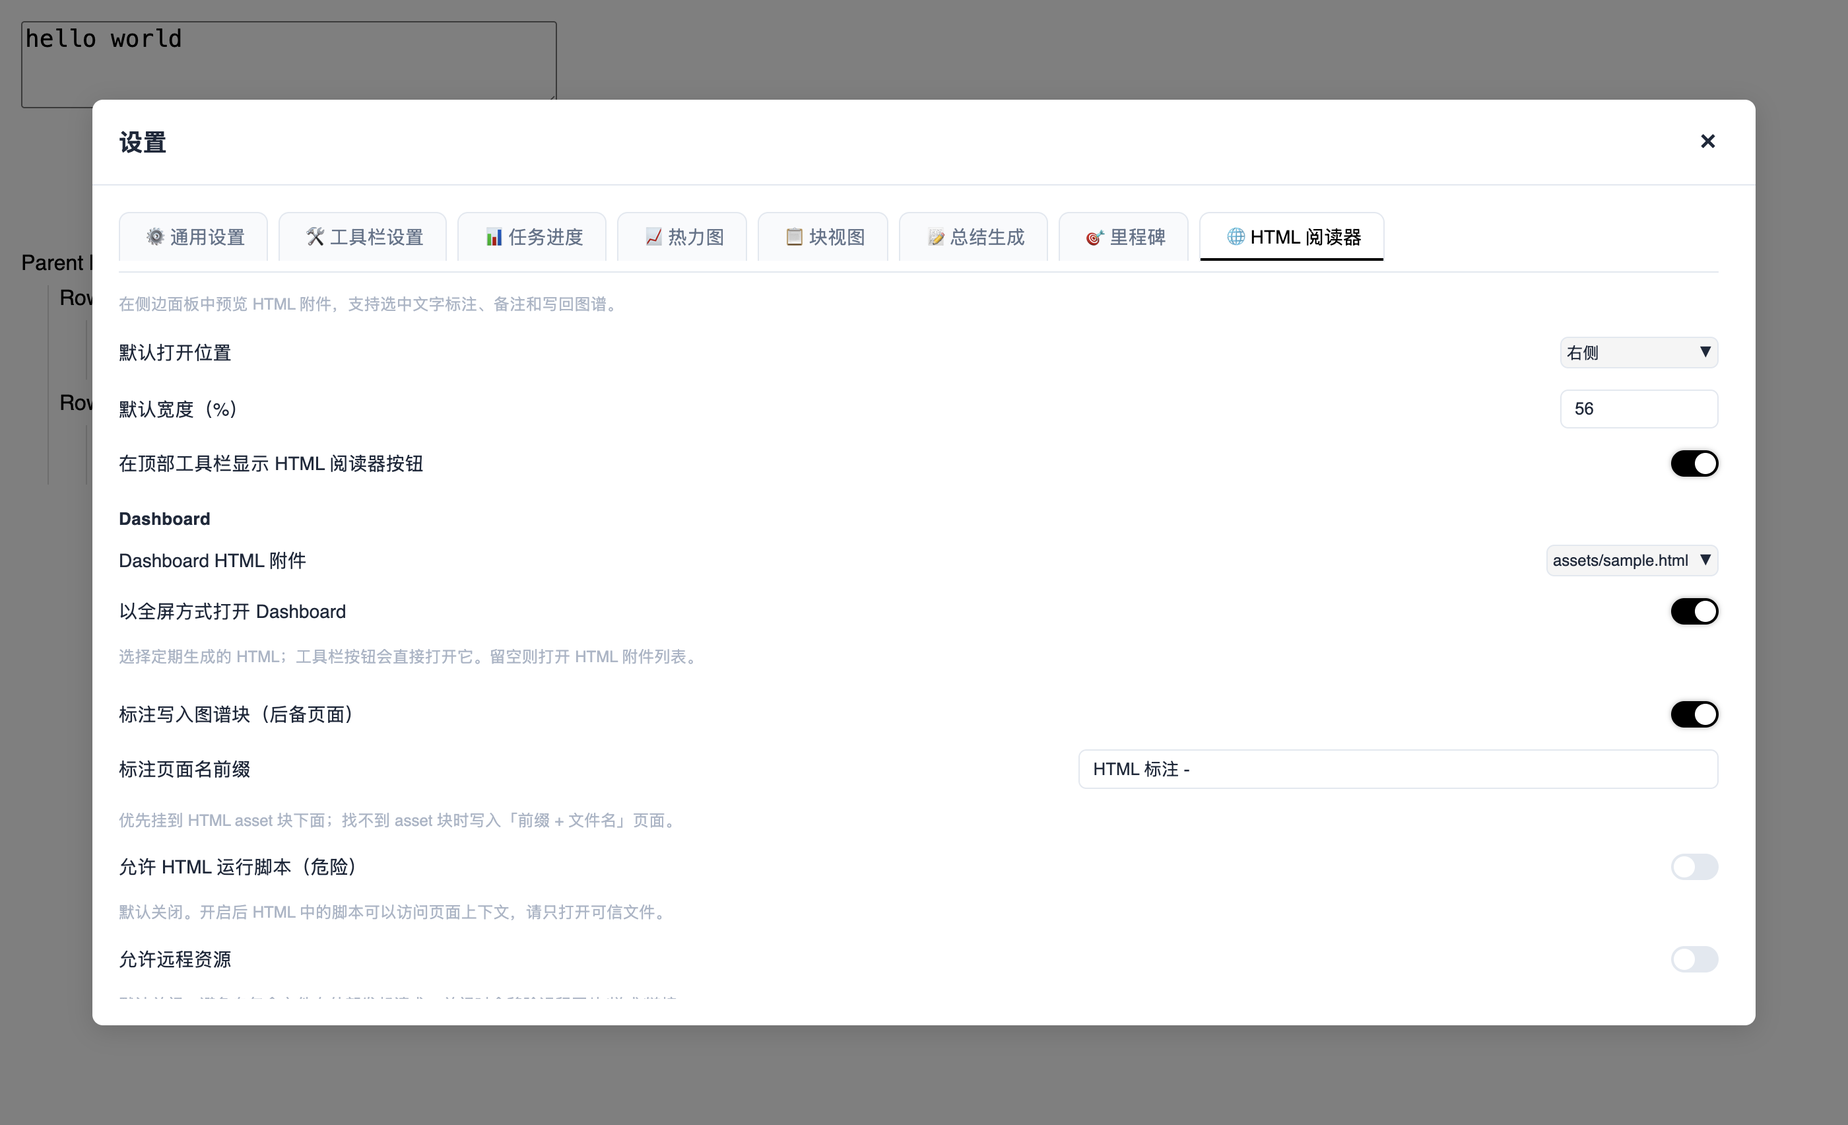
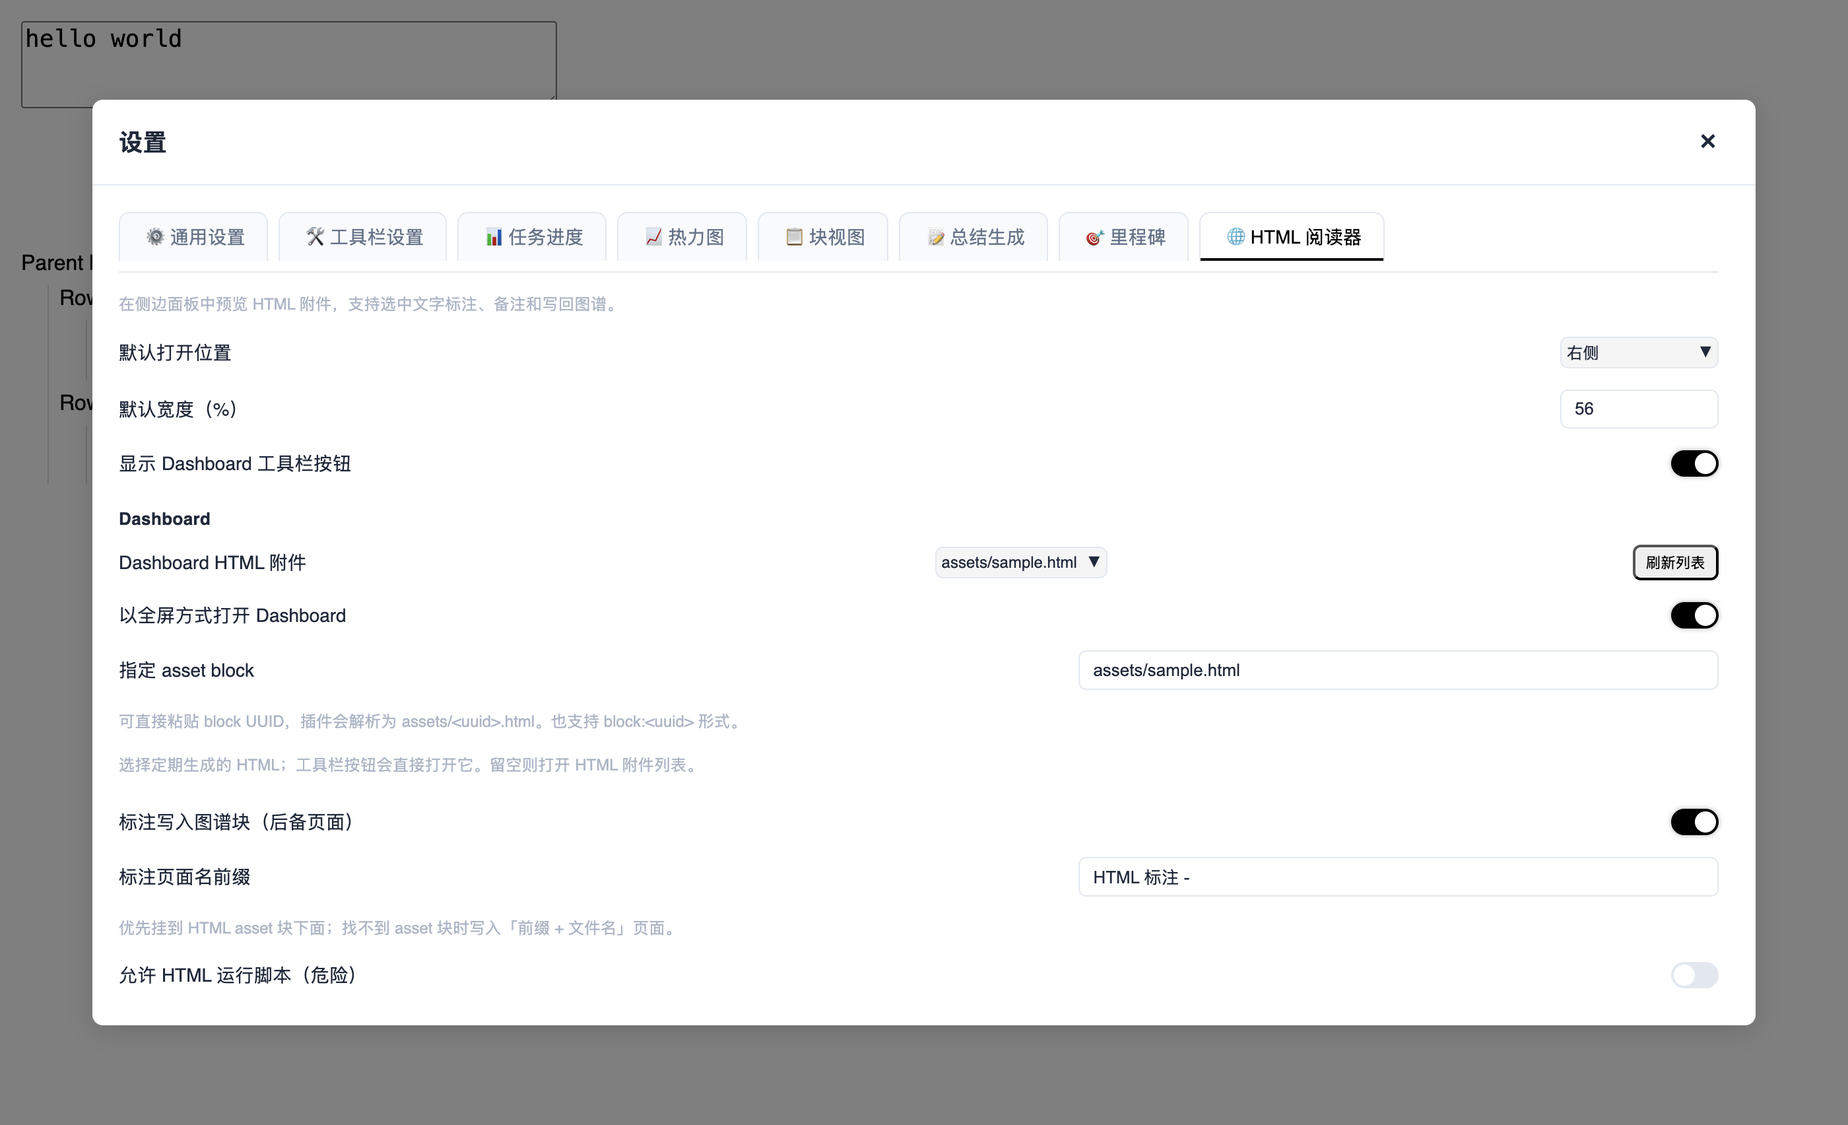
fix: stabilize real-host settings, comments and dashboard assets
Raise and re-enable pointer events for the custom comment modal so its textarea and close button work. Wrap the eight settings tabs instead of hiding HTML settings in horizontal overflow. Support block:<uuid> dashboard assets with host-side resolution, a refreshable asset block list and an advanced UUID input. Update docs/report; bump to 1.2.10.

diff --git a/docs/testing/reports/2026-10-19-functional-test-report.html b/docs/testing/reports/2026-10-19-functional-test-report.html
@@ -48,14 +48,14 @@
   <div class="badges">
     <span class="badge">E2E 25/25 PASS</span>
     <span class="badge">Vitest 718/718 PASS</span>
-    <span class="badge">plugin 1.2.4</span>
+    <span class="badge">plugin 1.2.10</span>
     <span class="badge">min SDK 0.3.1+</span>
   </div>
 </header>
 <p class="notice">截图来自 Electron Host mock，不是真实 Logseq 成品 UI。真实 Logseq 仍需按 <a href="../../architecture/Real-Logseq-Smoke-Test.md">Real-Logseq-Smoke-Test.md</a> 做发版前人工确认。</p>
 
 <h2>真实 Logseq 2.0.2 Smoke</h2>
-<div class="notice"><strong>2026-10-20 真实 test DB 图 smoke：</strong>设置打开/切换/关闭、选中文本工具栏、HTML asset 预览按钮、HTML 读取、HTML 标注写入 asset 子块均通过。真实测试新增了 <code>HTML Test</code> 页面、HTML asset 和一条测试标注块。</div>
+<div class="notice"><strong>2026-10-20 真实 test DB 图 smoke：</strong>设置打开/切换/关闭、8 Tab 换行、选中文本工具栏、评论弹窗输入/关闭、HTML asset 预览按钮、HTML 读取、HTML 标注写入 asset 子块、Dashboard block UUID 均通过。真实测试新增了 <code>HTML Test</code> 页面、HTML asset、测试标注块和少量测试文本。</div>
 <h2>结果总览</h2>
 <div class="stat">
   <div class="card"><span>Electron 主功能</span><strong>13/13</strong><span>PASS</span></div>
@@ -67,13 +67,13 @@
 <p style="margin-top:14px"><span class="ok">Vitest 80 files / 718 tests passed</span></p>
 
 <h2>环境</h2>
-<table><tbody><tr><td>OS</td><td>macOS 26.3.2 (Build 25D2150)</td></tr><tr><td>Electron</td><td>42.11.15</td></tr><tr><td>Chromium</td><td>148.0.7778.280</td></tr><tr><td>Node.js</td><td>24.17.0</td></tr><tr><td>Plugin</td><td>logseq-text-toolkit 1.2.4</td></tr><tr><td>SDK floor</td><td>@logseq/libs 0.3.1+ / host 2.0.2</td></tr><tr><td>Runner</td><td>scripts/e2e (Electron + Host mock)</td></tr></tbody></table>
+<table><tbody><tr><td>OS</td><td>macOS 26.3.2 (Build 25D2150)</td></tr><tr><td>Electron</td><td>42.11.15</td></tr><tr><td>Chromium</td><td>148.0.7778.280</td></tr><tr><td>Node.js</td><td>24.17.0</td></tr><tr><td>Plugin</td><td>logseq-text-toolkit 1.2.10</td></tr><tr><td>SDK floor</td><td>@logseq/libs 0.3.1+ / host 2.0.2</td></tr><tr><td>Runner</td><td>scripts/e2e (Electron + Host mock)</td></tr></tbody></table>
 
 <h2>套件结果</h2>
 <table><thead><tr><th>套件</th><th>通过</th><th>覆盖</th></tr></thead><tbody><tr><td>主功能套件</td><td class="num pass">13/13</td><td>插件注册、设置、选区工具栏、评论、BlockView、TaskProgress、Heatmap、Milestone、Summary、slash commands</td></tr><tr><td>Summary 专项</td><td class="num pass">3/3</td><td>自定义日期范围、年度模板/页面名、同名总结安全替换</td></tr><tr><td>HTML 阅读器</td><td class="num pass">5/5</td><td>附件列表、文字标注、高亮、面板控制、Dashboard、持久化</td></tr><tr><td>旧 Host fallback</td><td class="num pass">2/2</td><td>无 onInputSelectionEnd；原生 textarea 选区</td></tr><tr><td>SDK 静默 fallback</td><td class="num pass">2/2</td><td>暴露 SDK hook 但从不发事件；原生选区仍可用</td></tr></tbody></table>
 
 <h2>功能覆盖</h2>
-<table><thead><tr><th>功能</th><th>验证点</th></tr></thead><tbody><tr><td>设置弹窗</td><td>8 个 Tab / 7 个功能；BlockView / HTML 阅读器 Tab 可切换；保存成功；真实 Host 可打开/关闭</td></tr><tr><td>选区工具栏</td><td>SDK onInputSelectionEnd → 工具栏 → 加粗 → updateBlock</td></tr><tr><td>评论</td><td>工具栏评论项 → 弹窗 → 保存 → inline-comment</td></tr><tr><td>BlockView</td><td>list/table/gallery/board；Table 3 个 grid track；表格行 control 不再占用 grid 列；设置实时刷新</td></tr><tr><td>TaskProgress</td><td>1/2；tag-only 无 status 任务计入 todo</td></tr><tr><td>Heatmap</td><td>年度/月度/周度切换；42 个 week cell；scheduled 日期属性</td></tr><tr><td>Milestone</td><td>Initiation / Planning 两个阶段渲染</td></tr><tr><td>Summary</td><td>GTD 生成、活跃块数、自动洞察、view=week 热力图宏、自定义范围、年度页面</td></tr><tr><td>HTML 阅读器</td><td>HTML 附件列表/预览；选区标注/备注；高亮/跳回；左侧/右侧/全屏；Dashboard；持久化</td></tr><tr><td>Slash commands</td><td>TaskProgress / Heatmap / BlockView / Milestone / HTML Viewer / Dashboard 六条命令</td></tr></tbody></table>
+<table><thead><tr><th>功能</th><th>验证点</th></tr></thead><tbody><tr><td>设置弹窗</td><td>7 个 Tab；BlockView Tab 可切换；保存成功；hit-test 在弹窗内</td></tr><tr><td>选区工具栏</td><td>SDK onInputSelectionEnd → 工具栏 → 加粗 → updateBlock</td></tr><tr><td>评论</td><td>工具栏评论项 → 弹窗 → 保存 → inline-comment</td></tr><tr><td>BlockView</td><td>list/table/gallery/board；Table 3 个 grid track；表格行 control 不再占用 grid 列；设置实时刷新</td></tr><tr><td>TaskProgress</td><td>1/2；tag-only 无 status 任务计入 todo</td></tr><tr><td>Heatmap</td><td>年度/月度/周度切换；42 个 week cell；scheduled 日期属性</td></tr><tr><td>Milestone</td><td>Initiation / Planning 两个阶段渲染</td></tr><tr><td>Summary</td><td>GTD 生成、活跃块数、自动洞察、view=week 热力图宏、自定义范围、年度页面</td></tr><tr><td>HTML 阅读器</td><td>HTML 附件列表/预览；选区标注/备注；高亮/跳回；左侧/右侧/全屏；Dashboard；持久化</td></tr><tr><td>Slash commands</td><td>TaskProgress / Heatmap / BlockView / Milestone 四条宏插入</td></tr></tbody></table>
 
 <h2>截图</h2>
 <div class="shots"><figure class="shot">

diff --git a/src/components/SettingsModal/tabs/HtmlViewerSettings.tsx b/src/components/SettingsModal/tabs/HtmlViewerSettings.tsx
@@ -4,6 +4,7 @@ import CustomSelect from '../../CustomSelect/index.tsx'
 import { HtmlViewerSettings as HtmlViewerSettingsType } from '../../../settings/types'
 import { TabComponentProps } from '../index'
 import { logseqAPI } from '../../../logseq'
+import { listHtmlDashboardBlocks } from '../../../lib/htmlViewer/dashboard'
 
 const DEFAULT_SETTINGS: HtmlViewerSettingsType = {
   enabled: true,
@@ -21,14 +22,21 @@ const DEFAULT_SETTINGS: HtmlViewerSettingsType = {
 
 function HtmlViewerSettings({ settings, setSettings, onSave, isSaving, language }: TabComponentProps) {
   const [dashboardAssets, setDashboardAssets] = useState<string[]>([])
+  const [dashboardBlocks, setDashboardBlocks] = useState<Array<{ uuid: string; title: string; path: string }>>([])
 
   useEffect(() => {
     let cancelled = false
     void (async () => {
       try {
-        const files = await logseqAPI.Assets?.listFilesOfCurrentGraph?.(['html', 'htm'])
-        if (!cancelled && Array.isArray(files)) {
-          setDashboardAssets(files.map((file: any) => String(file.path || '')).filter(Boolean))
+        const [files, blocks] = await Promise.all([
+          logseqAPI.Assets?.listFilesOfCurrentGraph?.(['html', 'htm']),
+          listHtmlDashboardBlocks(),
+        ])
+        if (!cancelled) {
+          if (Array.isArray(files)) {
+            setDashboardAssets(files.map((file: any) => String(file.path || '')).filter(Boolean))
+          }
+          setDashboardBlocks(blocks)
         }
       } catch {
         // Manual asset path below remains available.
@@ -36,6 +44,21 @@ function HtmlViewerSettings({ settings, setSettings, onSave, isSaving, language 
     })()
     return () => { cancelled = true }
   }, [])
+
+  const refreshDashboardOptions = async () => {
+    try {
+      const [files, blocks] = await Promise.all([
+        logseqAPI.Assets?.listFilesOfCurrentGraph?.(['html', 'htm']),
+        listHtmlDashboardBlocks(),
+      ])
+      if (Array.isArray(files)) {
+        setDashboardAssets(files.map((file: any) => String(file.path || '')).filter(Boolean))
+      }
+      setDashboardBlocks(blocks)
+    } catch {
+      // Keep current options.
+    }
+  }
 
   const current: HtmlViewerSettingsType = {
     ...DEFAULT_SETTINGS,
@@ -114,14 +137,26 @@ function HtmlViewerSettings({ settings, setSettings, onSave, isSaving, language 
           <CustomSelect
             options={[
               { value: '', label: t('settings.htmlViewer.dashboardNone' as any, language) },
-              ...dashboardAssets.map((path) => ({ value: path, label: path })),
-              ...(current.dashboardAsset && !dashboardAssets.includes(current.dashboardAsset)
+              ...dashboardBlocks.map((block) => ({
+                value: `block:${block.uuid}`,
+                label: `${block.title} · block asset`,
+              })),
+              ...dashboardAssets
+                .filter((path) => !dashboardBlocks.some((block) => block.path === path))
+                .map((path) => ({ value: path, label: path })),
+              ...(current.dashboardAsset &&
+                current.dashboardAsset !== '' &&
+                !dashboardAssets.includes(current.dashboardAsset) &&
+                !dashboardBlocks.some((block) => `block:${block.uuid}` === current.dashboardAsset)
                 ? [{ value: current.dashboardAsset, label: current.dashboardAsset }]
                 : []),
             ]}
             value={current.dashboardAsset}
             onChange={(value) => update({ dashboardAsset: value })}
           />
+          <button type="button" className="ltt-html-dashboard-refresh" onClick={() => void refreshDashboardOptions()}>
+            {t('settings.htmlViewer.refresh' as any, language)}
+          </button>
         </div>
         <div className="ltt-setting-item">
           <label>{t('settings.htmlViewer.dashboardFullscreen' as any, language)}</label>
@@ -134,19 +169,25 @@ function HtmlViewerSettings({ settings, setSettings, onSave, isSaving, language 
             <span className="ltt-switch-slider"></span>
           </label>
         </div>
+        <div className="ltt-setting-item">
+          <label>{t('settings.htmlViewer.dashboardBlock' as any, language)}</label>
+          <input
+            type="text"
+            value={current.dashboardAsset}
+            onChange={(e) => {
+              const value = e.target.value.trim()
+              const normalized = /^[0-9a-f]{8}-[0-9a-f-]{27,}$/i.test(value) ? `block:${value}` : value
+              update({ dashboardAsset: normalized })
+            }}
+            placeholder="block:<uuid> 或 assets/foo.html"
+          />
+        </div>
+        <p className="ltt-tab-section-description-small">
+          {t('settings.htmlViewer.dashboardBlockHint' as any, language)}
+        </p>
         <p className="ltt-tab-section-description-small">
           {t('settings.htmlViewer.dashboardHint' as any, language)}
         </p>
-        {dashboardAssets.length === 0 && (
-          <div className="ltt-setting-item">
-            <input
-              type="text"
-              value={current.dashboardAsset}
-              onChange={(e) => update({ dashboardAsset: e.target.value })}
-              placeholder={t('settings.htmlViewer.dashboardAssetPlaceholder' as any, language)}
-            />
-          </div>
-        )}
       </div>
 
       <div className="ltt-setting-item">

diff --git a/src/components/Comment/inlineComment.css b/src/components/Comment/inlineComment.css
@@ -11,7 +11,8 @@
   bottom: 0;
   background: rgba(0, 0, 0, 0.25);
   backdrop-filter: blur(4px);
-  z-index: 1000;
+  z-index: 10050;
+  pointer-events: auto;
   display: flex;
   align-items: flex-start;
   justify-content: center;
@@ -100,7 +101,7 @@
   justify-content: center;
 }
 
-.ltt-inline-comment-modal-content :deep(textarea) {
+.ltt-inline-comment-modal-content textarea {
   width: 90%;
   height: 34px;
   min-height: 34px;
@@ -120,33 +121,33 @@
   box-shadow: 0 0 0 1px rgba(0, 0, 0, 0.04);
 }
 
-[data-theme="dark"] .ltt-inline-comment-modal-content :deep(textarea) {
+[data-theme="dark"] .ltt-inline-comment-modal-content textarea {
   background: var(--ls-secondary-background-color, #252525);
   color: var(--ls-primary-text-color, #fafafa);
   box-shadow: 0 0 0 1px rgba(255, 255, 255, 0.04);
 }
 
-.ltt-inline-comment-modal-content :deep(textarea):hover {
+.ltt-inline-comment-modal-content textarea:hover {
   background: var(--ls-secondary-background-color, #f5f5f5);
 }
 
-[data-theme="dark"] .ltt-inline-comment-modal-content :deep(textarea):hover {
+[data-theme="dark"] .ltt-inline-comment-modal-content textarea:hover {
   background: var(--ls-secondary-background-color, #2a2a2a);
 }
 
-.ltt-inline-comment-modal-content :deep(textarea):focus,
-.ltt-inline-comment-modal-content :deep(textarea):active {
+.ltt-inline-comment-modal-content textarea:focus,
+.ltt-inline-comment-modal-content textarea:active {
   background: var(--ls-primary-background-color, #ffffff);
   box-shadow: 0 0 0 1px #000000;
 }
 
-[data-theme="dark"] .ltt-inline-comment-modal-content :deep(textarea):focus,
-[data-theme="dark"] .ltt-inline-comment-modal-content :deep(textarea):active {
+[data-theme="dark"] .ltt-inline-comment-modal-content textarea:focus,
+[data-theme="dark"] .ltt-inline-comment-modal-content textarea:active {
   background: var(--ls-primary-background-color, #1e1e1e);
   box-shadow: 0 0 0 1px rgba(255, 255, 255, 0.12);
 }
 
-.ltt-inline-comment-modal-content :deep(textarea)::placeholder {
+.ltt-inline-comment-modal-content textarea::placeholder {
   color: var(--ls-secondary-text-color, #bbb);
 }
 

diff --git a/src/lib/htmlViewer/dashboard.ts b/src/lib/htmlViewer/dashboard.ts
@@ -1,0 +1,46 @@
+import { logseqAPI } from '../../logseq';
+
+export interface DashboardBlockOption {
+  uuid: string;
+  title: string;
+  path: string;
+}
+
+export async function listHtmlDashboardBlocks(): Promise<DashboardBlockOption[]> {
+  const db = (logseqAPI as any).DB;
+  if (!db?.datascriptQuery) return [];
+  for (let attempt = 0; attempt < 3; attempt += 1) {
+    try {
+      const rows = await db.datascriptQuery(
+        '[:find (pull ?b [:block/uuid :block/title :logseq.property.asset/type]) :where [?b :logseq.property.asset/type "html"]]'
+      );
+      const blocks = (Array.isArray(rows) ? rows : [])
+        .map((row: any) => row?.[0] ?? row)
+        .filter((block: any) => block?.['block/uuid'] || block?.uuid)
+        .map((block: any) => {
+          const uuid = String(block['block/uuid'] || block.uuid);
+          const title = String(block['block/title'] || block.title || uuid);
+          return { uuid, title, path: `assets/${uuid}.html` };
+        });
+      if (blocks.length) return blocks;
+    } catch {
+      // DB may still be mounting during plugin boot.
+    }
+    await new Promise((resolve) => setTimeout(resolve, 250));
+  }
+  return [];
+}
+
+export async function resolveDashboardAsset(value: string): Promise<string> {
+  if (!value.startsWith('block:')) return value;
+  const uuid = value.slice('block:'.length).trim();
+  if (!uuid) return '';
+  try {
+    const block = await (logseqAPI as any).Editor?.getBlock?.(uuid, { includeChildren: false });
+    const type = String(block?.['logseq.property.asset/type'] ?? block?.[':logseq.property.asset/type'] ?? '').toLowerCase();
+    if (!block || !['html', 'htm', 'text/html'].includes(type)) return '';
+    return `assets/${uuid}.${type === 'text/html' ? 'html' : type}`;
+  } catch {
+    return '';
+  }
+}

diff --git a/src/lib/htmlViewer/register.ts b/src/lib/htmlViewer/register.ts
@@ -7,6 +7,7 @@ import { getSettings } from '../../settings';
 import { t } from '../../translations/i18n';
 import { HtmlViewer } from '../../components/HtmlViewer/HtmlViewer';
 import { assetPathFor, isHtmlAssetBlock } from './assetBlock';
+import { resolveDashboardAsset } from './dashboard';
 import logger from '../logger';
 
 const ID = 'text-toolkit-html-viewer';
@@ -76,13 +77,18 @@ export function openHtmlViewer(path: string = '', options: { fullscreen?: boolea
   renderViewer();
 }
 
-export function openDashboard(): void {
+export async function openDashboard(): Promise<void> {
   const settings = getSettings().htmlViewer;
   if (!settings?.dashboardAsset) {
     openHtmlViewer();
     return;
   }
-  openHtmlViewer(settings.dashboardAsset, {
+  const path = await resolveDashboardAsset(settings.dashboardAsset);
+  if (!path) {
+    openHtmlViewer();
+    return;
+  }
+  openHtmlViewer(path, {
     fullscreen: settings.dashboardFullscreen !== false,
     dashboard: true,
   });

diff --git a/src/components/SettingsModal/settingsModal.css b/src/components/SettingsModal/settingsModal.css
@@ -553,9 +553,8 @@
   margin-bottom: 16px;
   border-bottom: 1px solid var(--ltt-border, #e0e0e0);
   padding-bottom: 8px;
-  flex-wrap: nowrap;
-  overflow-x: auto;
-  scrollbar-width: none;
+  flex-wrap: wrap;
+  overflow-x: visible;
   -ms-overflow-style: none;
 }
 
@@ -1560,3 +1559,5 @@ input:checked + .ltt-switch-slider:before {
 }
 
 .ltt-html-viewer-settings .ltt-setting-item > label { width: 220px; white-space: normal; }
+.ltt-html-dashboard-refresh { flex: 0 0 auto; font-size: 11px; padding: 4px 8px; border-radius: 6px; }
+.ltt-html-viewer-settings .ltt-setting-item { flex-wrap: wrap !important; }

diff --git a/docs/testing/reports/2026-10-19-functional-test-report.md b/docs/testing/reports/2026-10-19-functional-test-report.md
@@ -1,7 +1,7 @@
 # Text Toolkit 功能测试报告
 
 - **日期**：2026-10-19
-- **插件版本**：1.2.4
+- **插件版本**：1.2.10
 - **测试方式**：Electron 42 + Host mock，加载真实 `dist/index.js`
 - **结果**：**E2E 25/25 PASS；单元/集成 718/718 PASS**
 
@@ -15,7 +15,7 @@
 | Electron | 42.11.15 |
 | Chromium | 148.0.7778.280 |
 | Node.js | 24.17.0 |
-| Plugin | logseq-text-toolkit 1.2.4 |
+| Plugin | logseq-text-toolkit 1.2.10 |
 | SDK floor | @logseq/libs 0.3.1+ / host 2.0.2 |
 | Runner | scripts/e2e (Electron + Host mock) |
 
@@ -24,14 +24,17 @@
 2026-10-20 在真实 Logseq 2.0.2 test DB 图（`test`）完成一轮 smoke：
 
 - 设置按钮可以打开、切换 Tab、关闭，不再被不可见 modal overlay 阻挡
+- 8 个设置 Tab 自动换行，HTML 阅读器不再被挤到水平滚动区外
 - 选中文本后选区工具栏出现（`Editor.onInputSelectionEnd`）
+- 评论弹窗可输入、可关闭，不再被低 z-index / pointer-events 阻挡
 - 真实 `assets/*.html` 可以通过 `Assets.makeUrl()` 读取并渲染
 - HTML asset 块显示紧凑预览按钮（host React block renderer）
 - 选中 HTML 文本 → 标注 → 保存成功
 - 标注块写入 HTML asset 子块，来源路径正确
+- Dashboard 支持 `block:<uuid>`，真实 asset block 可解析并全屏打开
 - 真实图内复测后，未发现不可恢复错误
 
-> 真实测试会修改 test 图：新增 `HTML Test` 页面、一个 HTML asset 和一条测试标注块。
+> 真实测试会修改 test 图：新增 `HTML Test` 页面、一个 HTML asset、一条测试标注块和少量测试文本。
 
 ## 结果总览
 
@@ -52,7 +55,7 @@ Vitest:      80 files / 718 tests passed
 
 | 功能 | 验证点 |
 |---|---|
-| 设置弹窗 | 8 个 Tab / 7 个功能；BlockView / HTML 阅读器 Tab 可切换；保存成功；真实 Host 可打开/关闭 |
+| 设置弹窗 | 7 个 Tab；BlockView Tab 可切换；保存成功；hit-test 在弹窗内 |
 | 选区工具栏 | SDK onInputSelectionEnd → 工具栏 → 加粗 → updateBlock |
 | 评论 | 工具栏评论项 → 弹窗 → 保存 → inline-comment |
 | BlockView | list/table/gallery/board；Table 3 个 grid track；表格行 control 不再占用 grid 列；设置实时刷新 |
@@ -61,7 +64,7 @@ Vitest:      80 files / 718 tests passed
 | Milestone | Initiation / Planning 两个阶段渲染 |
 | Summary | GTD 生成、活跃块数、自动洞察、view=week 热力图宏、自定义范围、年度页面 |
 | HTML 阅读器 | HTML 附件列表/预览；选区标注/备注；高亮/跳回；左侧/右侧/全屏；Dashboard；持久化 |
-| Slash commands | TaskProgress / Heatmap / BlockView / Milestone / HTML Viewer / Dashboard 六条命令 |
+| Slash commands | TaskProgress / Heatmap / BlockView / Milestone 四条宏插入 |
 
 ## 截图
 

diff --git a/README.md b/README.md
@@ -285,7 +285,7 @@
 2. 点击 **从 URL 加载插件**
 3. 输入：`https://github.com/duiliuliu/logseq-text-toolkit/`
 
-> 当前版本 **1.2.4**，面向 Logseq DB 图，`minSDKVersion` 为 `0.3.1`；文件图不支持。
+> 当前版本 **1.2.10**，面向 Logseq DB 图，`minSDKVersion` 为 `0.3.1`；文件图不支持。
 
 ---
 

diff --git a/README.en.md b/README.en.md
@@ -43,7 +43,7 @@ views, summaries, HTML reading/annotation and AI-generated dashboards.
 2. **Load plugin from URL**
 3. Enter `https://github.com/duiliuliu/logseq-text-toolkit/`
 
-Current version: **1.2.4**.
+Current version: **1.2.10**.
 
 ### Text formatting
 
